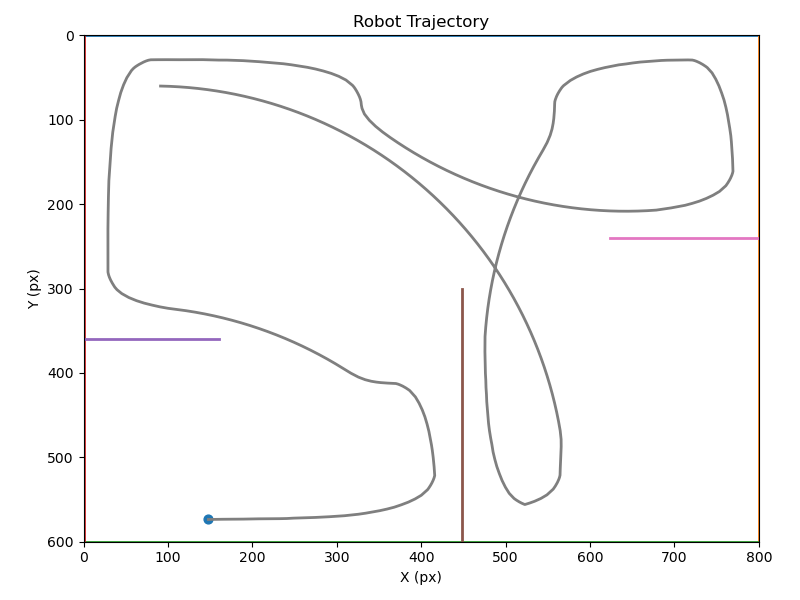
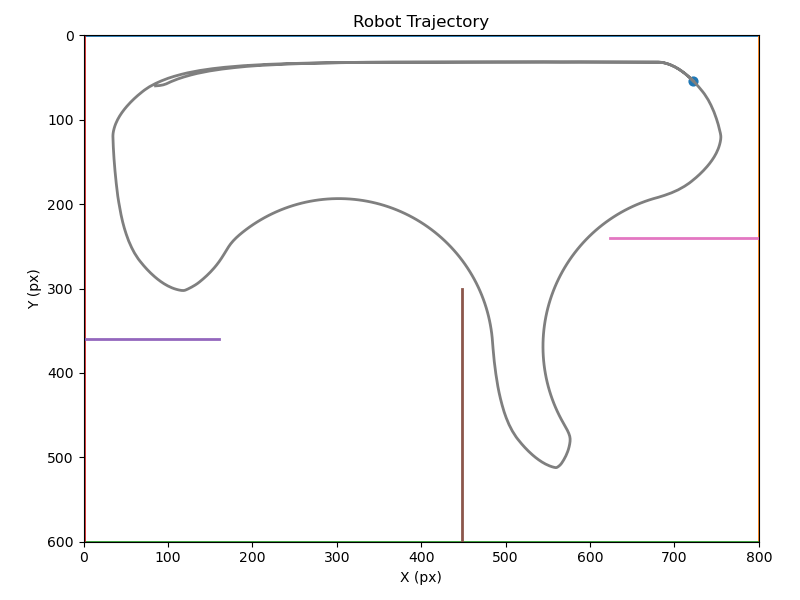
updated with multi runs and plots updated too

diff --git a/task_sheet_2/Task2/evol_classes.py b/task_sheet_2/Task2/evol_classes.py
@@ -5,7 +5,7 @@ from typing import List, Optional, Tuple, Dict, Set
 from pygame import Vector2
 import numpy as np
 import matplotlib.pyplot as plt
-
+import os
 
 class Wall:
     """Represents a wall segment for collision detection"""
@@ -120,7 +120,7 @@ class Robot(pygame.sprite.Sprite):
         self.v_left = 0.0
         self.v_right = 0.0
         self.max_speed = 3.0
-        self.rotation_speed = 0.05
+        self.rotation_speed = 0.03
         self.speed = 2.0
         
         # FSM state
@@ -147,7 +147,7 @@ class Robot(pygame.sprite.Sprite):
         ]
         
         # Safe distance threshold for FSM activation
-        self.safe_distance = 0.5 * self.rays[1].max_length
+        self.safe_distance = 0.6 * self.rays[1].max_length
         
         # Grid tracking for fitness
         self.visited_cells: Set[Tuple[int, int]] = set()
@@ -530,52 +530,55 @@ def evaluate_genome(genome: np.ndarray, width: int, height: int,
 
 
 def hill_climber(width: int, height: int, walls: List[Wall], 
-                generations: int = 100, eval_time: int = 1000,
-                start_pos: Vector2 = None, start_heading: float = 0.0):
-    """Hill climber evolution algorithm"""
+                 generations: int = 100, eval_time: int = 1000,
+                 start_pos: Vector2 = None, start_heading: float = 0.0,
+                 visualize_final: bool = True):
+    """Hill climber evolution algorithm; optionally visualize the final best genome once."""
     if start_pos is None:
         start_pos = Vector2(width * 0.1, height * 0.1)
-    
+
     # Initialize with random genome
     current_genome = random_genome()
     current_fitness, _ = evaluate_genome(current_genome, width, height, walls, 
-                                        eval_time, start_pos, start_heading)
-    
+                                         eval_time, start_pos, start_heading, visualize=False)
     print(f"Generation 0: Fitness = {current_fitness}")
     print(f"Initial genome: {current_genome}")
-    
+
     fitness_history = [current_fitness]
     best_genome = current_genome.copy()
     best_fitness = current_fitness
-    
+
     for gen in range(1, generations + 1):
-        # Mutate current genome
         candidate_genome = mutate_genome(current_genome)
-        
-        # Evaluate candidate
         candidate_fitness, _ = evaluate_genome(candidate_genome, width, height, 
-                                              walls, eval_time, start_pos, start_heading)
-        
-        # Hill climber: accept if better or equal
+                                               walls, eval_time, start_pos, start_heading, visualize=False)
+
         if candidate_fitness >= current_fitness:
             current_genome = candidate_genome
             current_fitness = candidate_fitness
             print(f"Generation {gen}: Fitness = {current_fitness} (ACCEPTED)")
         else:
             print(f"Generation {gen}: Fitness = {candidate_fitness} (rejected, keeping {current_fitness})")
-        
+
         fitness_history.append(current_fitness)
-        
-        # Track best ever
         if current_fitness > best_fitness:
             best_fitness = current_fitness
             best_genome = current_genome.copy()
-    
+
     print(f"\nEvolution complete!")
     print(f"Best fitness: {best_fitness}")
     print(f"Best genome: {best_genome}")
-    
-    return best_genome, best_fitness, fitness_history
+
+    # One (and only) visualization run if requested
+    best_robot = None
+    if visualize_final:
+        print("\nVisualizing best genome...")
+        vis_fitness, best_robot = evaluate_genome(best_genome, width, height, walls,
+                                                  eval_time, start_pos, start_heading, visualize=True)
+        print(f"Final fitness (visualized): {vis_fitness}")
+
+    return best_genome, best_fitness, fitness_history, best_robot
+
 
 
 def visualize_evolved_behavior(genome: np.ndarray, width: int, height: int,
@@ -623,24 +626,66 @@ def save_trajectory_png(robot: "Robot",
     fig.savefig(out_path)
     plt.close(fig)
 
-# Main execution
-if __name__ == "__main__":
-    WIDTH, HEIGHT = 800, 600
-    walls = create_walls(WIDTH, HEIGHT)
-    start_pos = Vector2(WIDTH * 0.1, HEIGHT * 0.1)
-    start_heading = 0.0
-    
-    # Run hill climber
-    best_genome, best_fitness, fitness_history = hill_climber(
-        WIDTH, HEIGHT, walls, 
-        generations=50,
-        eval_time=3000,
-        start_pos=start_pos,
-        start_heading=start_heading
-    )
-    
-    # Visualize best behavior
-    visualize_evolved_behavior(best_genome, WIDTH, HEIGHT, walls, 
-                              eval_time=3000, start_pos=start_pos, 
-                              start_heading=start_heading)
+
+def run_multiple_and_plot(n_runs: int,
+                          width: int, height: int,
+                          walls,
+                          generations: int,
+                          eval_time: int,
+                          start_pos: Vector2,
+                          start_heading: float,
+                          out_path: str = "./multi_run_trajectories.png") -> None:
+    """
+    Runs hill_climber n_runs times independently (headless), evaluates the best genome once
+    per run to collect its trajectory, and plots all trajectories on one matplotlib figure.
+    """
+    robots = []
+
+    for i in range(n_runs):
+        # Evolve headless (no extra visual run)
+        best_genome, best_fitness, _, _ = hill_climber(
+            width, height, walls,
+            generations=generations,
+            eval_time=eval_time,
+            start_pos=start_pos,
+            start_heading=start_heading,
+            visualize_final=False
+        )
+        # Evaluate the best genome once to get its trajectory (headless)
+        _, robot = evaluate_genome(
+            best_genome, width, height, walls,
+            eval_time, start_pos, start_heading, visualize=False
+        )
+        robots.append(robot)
+        print(f"Run {i+1}: best fitness = {best_fitness}")
+
+    # --- Plot all trajectories together ---
+    fig, ax = plt.subplots(figsize=(width/100, height/100), dpi=100)
+    ax.set_xlim(0, width)
+    ax.set_ylim(height, 0)  # invert Y to match pygame coordinates
+    ax.set_aspect('equal', adjustable='box')
+    ax.set_title("Multi-run Trajectories")
+    ax.set_xlabel("X (px)")
+    ax.set_ylabel("Y (px)")
+
+    # Draw walls
+    for w in walls:
+        ax.plot([w.starting_pt.x, w.ending_pt.x],
+                [w.starting_pt.y, w.ending_pt.y],
+                linewidth=2)
+
+    # Draw trajectories, each with a different color/label
+    for i, robot in enumerate(robots):
+        if len(robot.trajectory) > 1:
+            xs = [p.x for p in robot.trajectory]
+            ys = [p.y for p in robot.trajectory]
+            ax.plot(xs, ys, linewidth=2, label=f"Run {i+1}")
+            ax.scatter([robot.pos.x], [robot.pos.y], s=20)  # final position marker
+
+    ax.legend(loc="upper right")
+    fig.tight_layout()
+    fig.savefig(out_path)
+    plt.close(fig)
+    print(f"Saved combined plot to: {out_path}")
+
     

diff --git a/task_sheet_2/Task2/main_evol.py b/task_sheet_2/Task2/main_evol.py
@@ -1,21 +1,22 @@
-from evol_classes import create_walls,Vector2,hill_climber,visualize_evolved_behavior
+from evol_classes import create_walls, Vector2, run_multiple_and_plot
+import matplotlib.pyplot as plt
 
+
+# Main execution
 if __name__ == "__main__":
     WIDTH, HEIGHT = 800, 600
     walls = create_walls(WIDTH, HEIGHT)
     start_pos = Vector2(WIDTH * 0.1, HEIGHT * 0.1)
     start_heading = 0.0
-    
-    # Run hill climber
-    best_genome, best_fitness, fitness_history = hill_climber(
-        WIDTH, HEIGHT, walls, 
+
+    # 5–10 independent runs on one plot (no duplicate final runs)
+    run_multiple_and_plot(
+        n_runs=6,
+        width=WIDTH, height=HEIGHT,
+        walls=walls,
         generations=50,
-        eval_time=1000,
+        eval_time=3000,
         start_pos=start_pos,
-        start_heading=start_heading
+        start_heading=start_heading,
+        out_path="./multi_run_trajectories.png"
     )
-    
-    # Visualize best behavior
-    visualize_evolved_behavior(best_genome, WIDTH, HEIGHT, walls, 
-                              eval_time=2000, start_pos=start_pos, 
-                              start_heading=start_heading)
